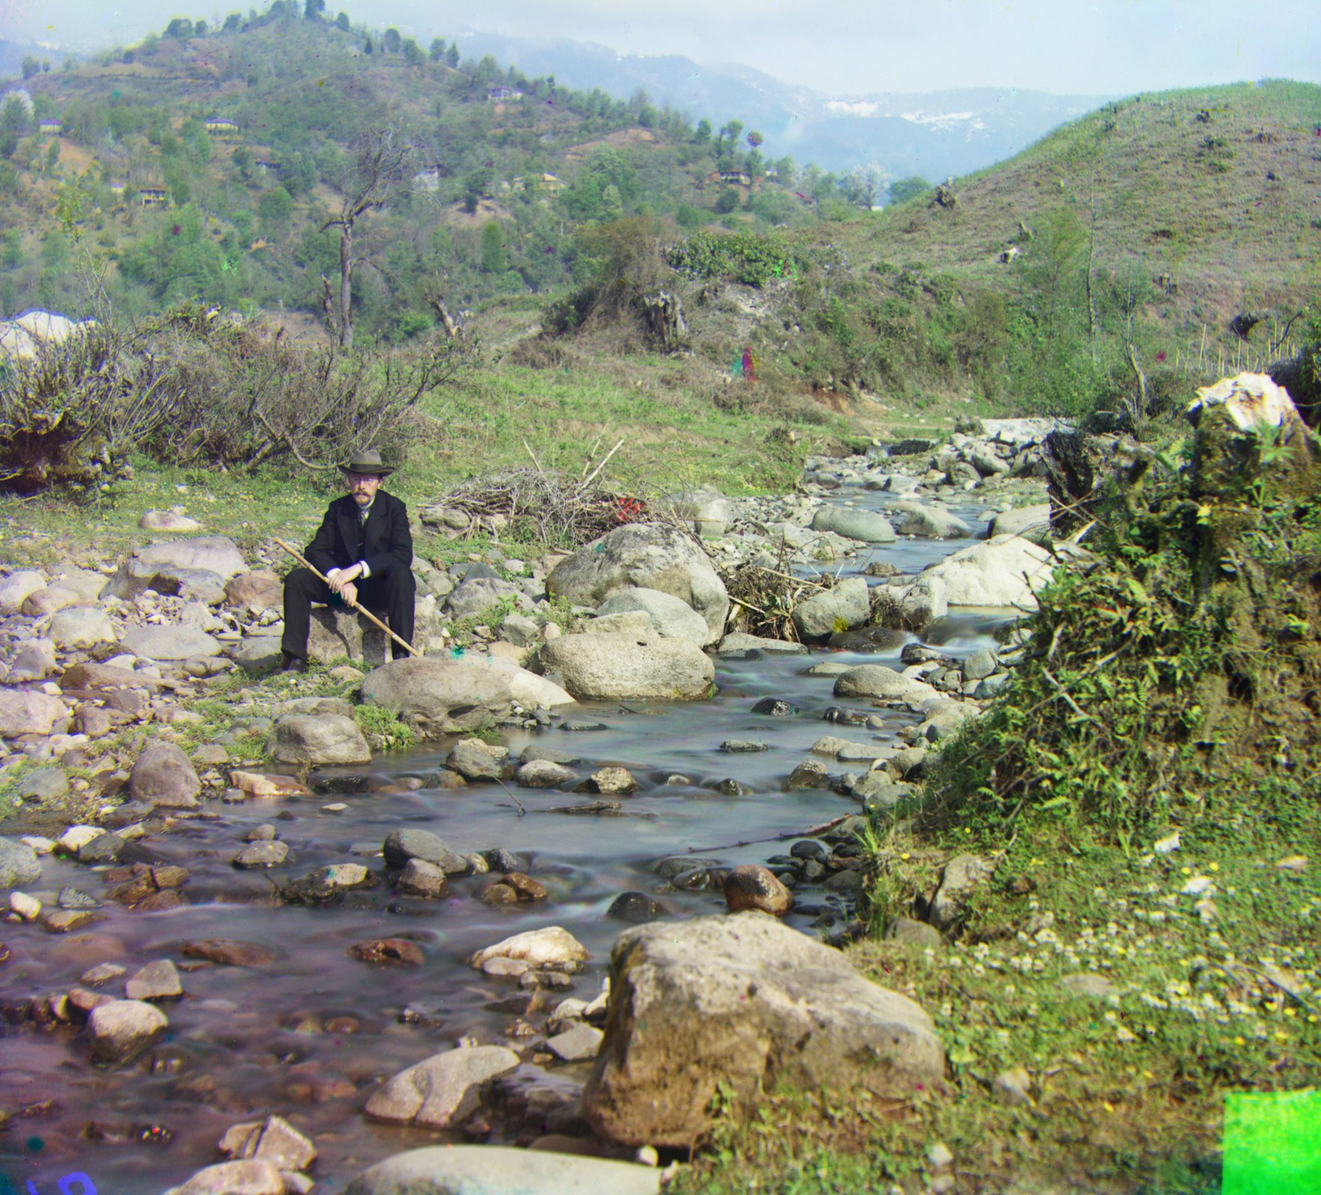
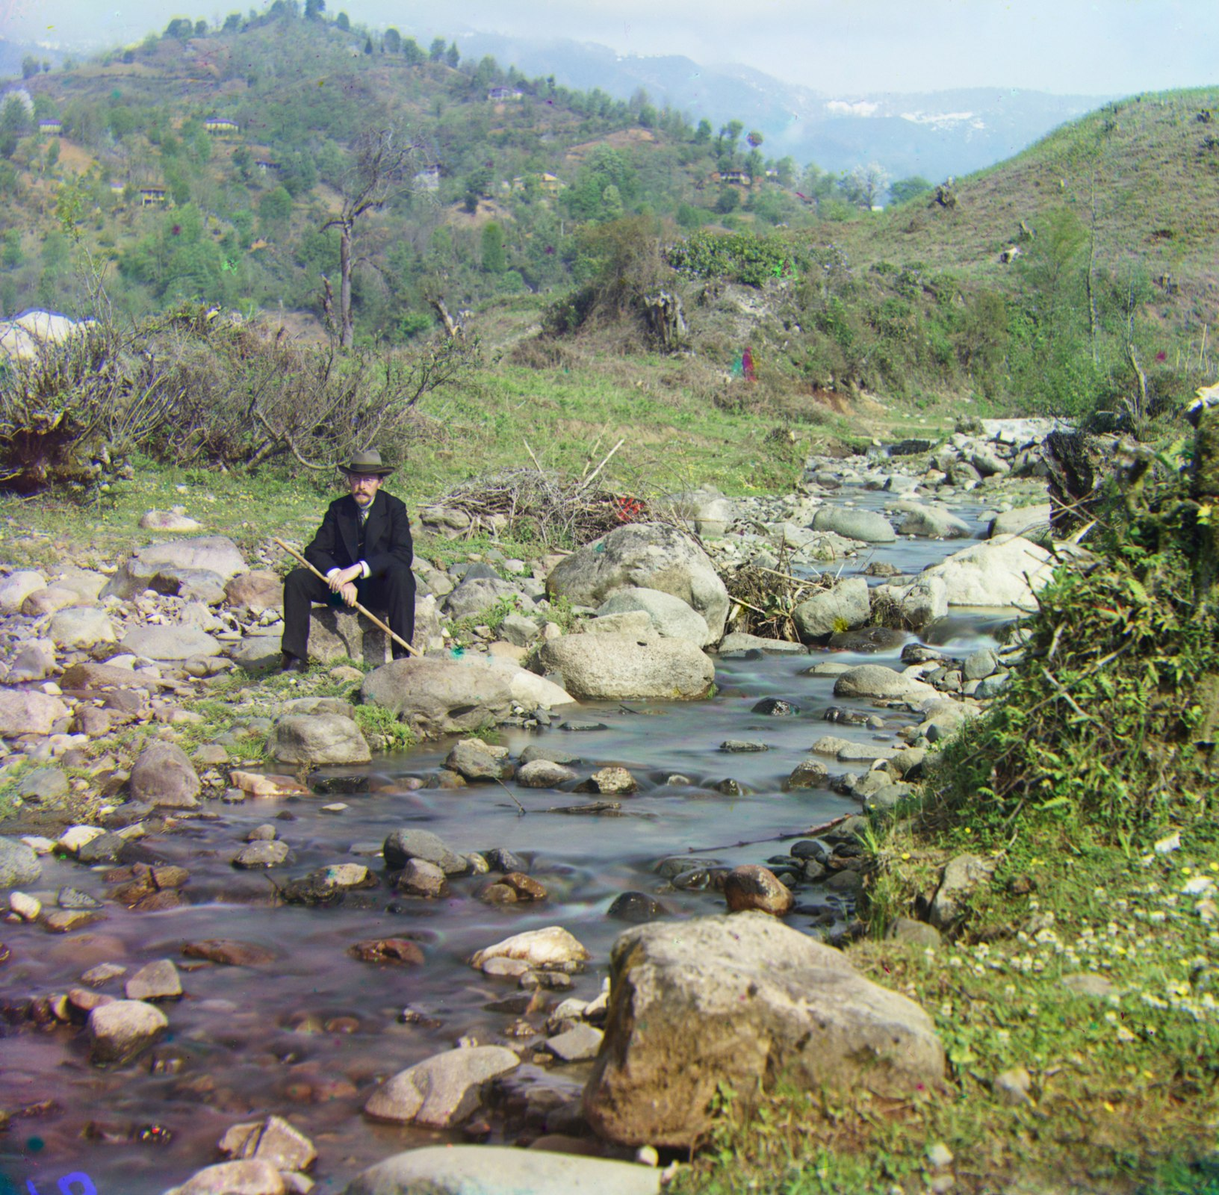
Expand Project 1 report and improve border handling

diff --git a/1/index.html b/1/index.html
@@ -14,8 +14,8 @@
       CS 180 · PROJECT 01
     </a>
     <nav aria-label="Page sections">
-      <a href="#method">Method</a>
-      <a href="#improvements">Improvements</a>
+      <a href="#method">Parts 1–4</a>
+      <a href="#improvements">Parts 5–7</a>
       <a href="#results">Results</a>
       <a href="#selected">Selected works</a>
     </nav>
@@ -40,11 +40,12 @@
     </section>
 
     <section class="light-section intro" id="method">
-      <div class="section-label"><span>01</span><p>Reconstruction pipeline</p></div>
+      <div class="section-label"><span>PART 1</span><p>Problem setup · from a glass plate to RGB</p></div>
       <div class="split-lead">
         <h2>One plate.<br>Three exposures.<br>One color image.</h2>
         <div>
-          <p>Each scan stores blue, green, and red filtered exposures from top to bottom. I split the plate into equal thirds, use blue as the fixed reference, translate green and red, and stack the aligned channels in RGB order. Blue is not mandated by the assignment; it is simply a consistent coordinate system, and any channel could serve as the reference.</p>
+          <p>Prokudin-Gorskii recorded the same scene three times through blue, green, and red filters. The digitized plate stores those grayscale exposures vertically in B–G–R order. Because the plate or camera moved slightly between exposures, directly stacking the three arrays produces colored ghosts. The task is to estimate one 2D translation for green and one for red, both relative to blue, then form an RGB image.</p>
+          <p>The reported displacement is <strong>(dy, dx)</strong>: positive dy moves a channel downward and positive dx moves it to the right. Once the two translations are estimated, only the region supported by all three channels is retained.</p>
           <div class="pipeline" aria-label="Alignment pipeline">
             <div><span>01</span><strong>Split</strong><small>B · G · R</small></div><b>→</b>
             <div><span>02</span><strong>Align</strong><small>G → B · R → B</small></div><b>→</b>
@@ -52,16 +53,38 @@
           </div>
         </div>
       </div>
+      <div class="plate-story">
+        <figure class="raw-plate"><span>INPUT · STACKED GLASS PLATE</span><img src="./media/plates/emir-stacked.jpg" alt="Emir glass plate containing blue, green, and red exposures from top to bottom" loading="lazy"><figcaption>Top → bottom: blue-filter, green-filter, red-filter exposures.</figcaption></figure>
+        <div class="plate-arrow" aria-hidden="true">→</div>
+        <figure class="plate-result"><span>OUTPUT · ALIGNED COLOR</span><img src="./media/final/emir.jpg" alt="Aligned color reconstruction of Emir" loading="lazy"><figcaption>G (49, 24) · R (107, 40), relative to blue.</figcaption></figure>
+      </div>
+      <div class="implementation-note">
+        <div><span>KEY IMPLEMENTATION</span><h3>Split without losing plate data</h3><p>The height of one exposure is ⌊H/3⌋. Any extra scan rows below the third exposure are ignored, and pixel values are converted to floating point before similarity scoring.</p></div>
+        <pre><code># pseudocode
+h = floor(total_height / 3)
+B = plate[0:h]
+G = plate[h:2h]
+R = plate[2h:3h]</code></pre>
+      </div>
     </section>
 
     <section class="dark-section">
-      <div class="section-label"><span>02</span><p>Single-scale alignment</p></div>
+      <div class="section-label"><span>PART 2</span><p>Single-scale exhaustive alignment</p></div>
       <div class="split-lead compact">
         <h2>Start small,<br>search everything.</h2>
         <div>
-          <p>For the three low-resolution JPEGs, I exhaustively evaluate every integer displacement in a [−15, 15] window. The score uses a fixed-size interior window valid for every candidate, so shifts are compared on exactly the same pixels and scanner borders do not dominate.</p>
-          <p class="formula">NCC(A,B) = ((A−μA) · (B−μB)) / (‖A−μA‖₂ ‖B−μB‖₂)</p>
+          <p>For each moving channel M and fixed blue reference B, I enumerate every integer translation d = (dy, dx) in [−15, 15]². The best displacement maximizes a similarity score S on the interior image content:</p>
+          <p class="formula">d* = arg max<sub>d∈[−15,15]²</sub> S(B, shift(M,d))</p>
+          <p>A crucial detail is the scoring window. I intersect the pixels that remain valid for <em>every</em> candidate shift, then remove another 10% interior margin. Every candidate is therefore measured on the same number of pixels. The final translation function writes uncovered pixels as black rather than using wraparound.</p>
         </div>
+      </div>
+      <div class="implementation-note dark-note">
+        <div><span>SEARCH LOGIC</span><h3>961 candidate translations per channel</h3><p>The low-resolution method is intentionally direct: two channels × 31 × 31 scores. This makes the result easy to reason about and satisfies the single-scale requirement.</p></div>
+        <pre><code># pseudocode
+for dy in -15 … 15:
+  for dx in -15 … 15:
+    score = similarity(B_window, shifted_M_window)
+    keep the displacement with the largest score</code></pre>
       </div>
       <div class="image-grid three">
         <figure class="image-card"><img src="./media/final/cathedral.jpg" alt="Aligned Cathedral"><figcaption><div><span>01</span><h3>Cathedral</h3></div><p>G (5, 2) · R (12, 3)</p></figcaption></figure>
@@ -71,7 +94,7 @@
     </section>
 
     <section class="dark-section pyramid-section">
-      <div class="section-label"><span>03</span><p>Multi-scale pyramid</p></div>
+      <div class="section-label"><span>PART 3</span><p>Coarse-to-fine image pyramid</p></div>
       <div class="pyramid-grid">
         <div class="pyramid-diagram" aria-label="Coarse-to-fine pyramid">
           <div style="width:34%">COARSE · SEARCH ±15</div>
@@ -82,20 +105,40 @@
         </div>
         <div>
           <h2>Large motion,<br>without a large search.</h2>
-          <p>Full-resolution TIFFs make a wide exhaustive search too expensive. I repeatedly apply a 2×2 box filter and downsample by two until the longest side is at most 400 pixels. The coarsest level searches broadly; each finer level doubles the estimate and refines it in a ±2 neighborhood.</p>
+          <p>A 31×31 search at full TIFF resolution repeatedly scores millions of pixels. Instead, I build a pyramid by averaging each 2×2 block before decimating by two. Filtering before downsampling reduces aliasing. Pyramid construction stops when the longest side is at most 400 pixels.</p>
+          <p>The coarsest image uses the full ±15 search. Moving one level finer doubles the displacement estimate because a coarse pixel covers two fine pixels; only a ±2 residual correction is then searched. If d<sub>ℓ+1</sub> is the coarser estimate, the next estimate is:</p>
+          <p class="formula">d<sub>ℓ</sub> = 2d<sub>ℓ+1</sub> + arg max<sub>δ∈[−2,2]²</sub> S(B<sub>ℓ</sub>, shift(M<sub>ℓ</sub>, 2d<sub>ℓ+1</sub>+δ))</p>
           <ul class="facts"><li><strong>Coarsest search</strong><span>±15 pixels</span></li><li><strong>Refinement</strong><span>±2 pixels per level</span></li><li><strong>Scoring area</strong><span>fixed valid overlap, inner 80%</span></li><li><strong>Runtime</strong><span>all final images under 25 seconds</span></li></ul>
         </div>
+      </div>
+      <div class="implementation-note dark-note">
+        <div><span>PYRAMID LOGIC</span><h3>Large motion becomes a small correction</h3><p>The same exhaustive aligner is reused at every scale. Only its search center and radius change, which keeps the implementation compact and testable.</p></div>
+        <pre><code># pseudocode
+offset = search(coarsest, center=(0,0), radius=15)
+for each finer level:
+  offset = 2 × offset
+  offset = search(level, center=offset, radius=2)</code></pre>
       </div>
     </section>
 
     <section class="paper-section metrics">
-      <div class="section-label"><span>04</span><p>Required base metrics</p></div>
+      <div class="section-label"><span>PART 4</span><p>Similarity metrics · NCC and Euclidean L2</p></div>
       <div class="split-lead compact">
         <h2>NCC and true<br>Euclidean L2.</h2>
         <div>
-          <p>I implemented both normalized cross-correlation and the exact Euclidean distance <strong>‖A−B‖₂</strong> on raw RGB-channel intensities. The L2 score is negated because the search routine maximizes scores. All displacement candidates use the same number of pixels; this avoids a small-overlap candidate appearing artificially better.</p>
+          <p><strong>Euclidean L2</strong> directly measures pixel disagreement. It is sensitive to brightness and contrast differences across filter channels, but is simple and effective when their intensities are comparable. The implementation evaluates the exact norm—not mean squared error—and negates it because the search routine maximizes scores.</p>
           <p class="formula light">L2 score(A,B) = −√Σᵢ(Aᵢ−Bᵢ)²</p>
+          <p><strong>Zero-mean normalized cross-correlation</strong> first subtracts each window’s mean and divides by its energy. It compares pattern shape instead of absolute intensity and is therefore more tolerant of global brightness and contrast changes.</p>
+          <p class="formula light">NCC(A,B) = ((A−μ<sub>A</sub>) · (B−μ<sub>B</sub>)) / (‖A−μ<sub>A</sub>‖₂ ‖B−μ<sub>B</sub>‖₂)</p>
         </div>
+      </div>
+      <div class="implementation-note light-note">
+        <div><span>METRIC LOGIC</span><h3>One maximization interface</h3><p>Both metrics return a score to maximize. Keeping a shared interface lets the same exhaustive search and pyramid code switch metrics without changing alignment logic.</p></div>
+        <pre><code># pseudocode
+if metric == "ncc":
+  return dot(center(A), center(B)) / energies
+if metric == "l2":
+  return -euclidean_norm(A - B)</code></pre>
       </div>
       <div class="metric-examples">
         <figure><span>NCC · Cathedral</span><img src="./media/metrics/cathedral-ncc.jpg" alt="Cathedral aligned with NCC" loading="lazy"><figcaption>G (5, 2) · R (12, 3)</figcaption></figure>
@@ -126,33 +169,61 @@
       <p class="table-note">These are the required raw-pixel experiments, not cherry-picked final outputs. Their failures motivated the feature extension below.</p>
     </section>
 
-    <section class="dark-section improvements" id="improvements">
-      <div class="section-label"><span>05</span><p>Improvement one · better features</p></div>
+    <section class="dark-section failure" id="improvements">
+      <div class="section-label"><span>PART 5</span><p>Failure analysis · Emir</p></div>
       <div class="split-lead compact">
-        <h2>When intensity lies,<br>follow the edges.</h2>
-        <p>Raw channels can represent the same material with very different brightness. My first extension forced gradient features everywhere: it fixed Emir, but slightly worsened already-stable images such as Three Generations. The final rule instead computes raw NCC and L2 first. If their offsets differ by more than two pixels, only that channel is realigned with gradient-magnitude NCC. Church and Emir’s red channels trigger this fixed, filename-independent fallback.</p>
+        <h2>Why raw pixels<br>fail on Emir.</h2>
+        <div><p>The Emir’s blue robe is bright in one filtered exposure and dark in another. Corresponding pixels therefore do not have corresponding intensities, violating the assumption behind raw-pixel comparison. The problem is especially severe for the red channel: raw NCC settles on R (141, −205), while L2 gives R (103, 57), and neither is visually correct.</p><p>The large disagreement between two otherwise reasonable metrics is useful evidence. Rather than treating one metric as universally correct, I use their disagreement as a confidence signal that raw intensity is unreliable for this channel.</p></div>
       </div>
       <div class="comparison-grid">
         <figure><span class="tag bad">Before · raw NCC</span><img src="./media/before/emir-raw.jpg" alt="Misaligned Emir from raw NCC" loading="lazy"><figcaption><strong>R (141, −205)</strong><span>Cross-channel brightness creates a false match.</span></figcaption></figure>
-        <figure><span class="tag good">After · adaptive edge fallback</span><img src="./media/final/emir.jpg" alt="Correctly aligned Emir after feature fallback" loading="lazy"><figcaption><strong>R (107, 40)</strong><span>Face, robe, and architecture now share structure.</span></figcaption></figure>
+        <figure><span class="tag bad">Before · raw L2</span><img src="./media/metrics/emir-l2.jpg" alt="Imperfect Emir from raw Euclidean L2" loading="lazy"><figcaption><strong>R (103, 57)</strong><span>Closer, but facial and architectural edges remain displaced.</span></figcaption></figure>
       </div>
-      <div class="decision-rule"><span>DECISION RULE</span><p>NCC/L2 agree within 2 px → retain raw pixels. Otherwise → edge-magnitude NCC for that channel only.</p></div>
+    </section>
+
+    <section class="dark-section improvements">
+      <div class="section-label"><span>PART 6</span><p>Improvement · more advanced is not always better</p></div>
+      <div class="split-lead compact">
+        <h2>Use edges<br>only when needed.</h2>
+        <div><p>Gradient magnitude emphasizes structural boundaries that remain stable even when colors change. For each channel image I compute horizontal and vertical finite differences and combine them as <strong>E = √(G<sub>x</sub>² + G<sub>y</sub>²)</strong>. Edge NCC correctly aligns Emir at G (49, 24), R (107, 40).</p><p>My first attempt forced edge matching on every plate. That solved Emir, but shifted Three Generations from the better raw result G (53, 14), R (112, 11) to G (54, 12), R (111, 9), making color outlines around the people more visible. A sophisticated feature is not automatically the best feature for every image.</p><p>The final method selects features independently for green and red. It first computes raw NCC and raw L2. If both coordinate estimates agree within two pixels, the raw result is trusted. If they disagree, that channel alone is recomputed with edge NCC. This fixed rule triggers for the red channels of Church and Emir; every other channel retains raw pixels.</p></div>
+      </div>
+      <div class="comparison-grid">
+        <figure><span class="tag bad">Forced edges everywhere</span><img src="./media/metrics/three-generations-edges.jpg" alt="Three Generations aligned using forced edge features" loading="lazy"><figcaption><strong>G (54, 12) · R (111, 9)</strong><span>Small subject outlines become more noticeable.</span></figcaption></figure>
+        <figure><span class="tag good">Adaptive feature selection</span><img src="./media/final/three_generations.jpg" alt="Three Generations using adaptive feature selection" loading="lazy"><figcaption><strong>G (53, 14) · R (112, 11)</strong><span>Stable raw-pixel alignment is retained.</span></figcaption></figure>
+      </div>
+      <div class="implementation-note dark-note">
+        <div><span>ADAPTIVE RULE</span><h3>Agreement acts as confidence</h3><p>The threshold is fixed and applied to each channel independently. No filename checks or hand-tuned offsets are used.</p></div>
+        <pre><code># pseudocode
+d_ncc = pyramid_align(raw, metric=NCC)
+d_l2  = pyramid_align(raw, metric=L2)
+if max_coordinate_difference(d_ncc, d_l2) ≤ 2:
+  use the requested raw metric
+else:
+  use pyramid_align(gradient_magnitude, metric=NCC)</code></pre>
+      </div>
+      <div class="decision-rule"><span>FINAL EMIR</span><p>G (49, 24) from raw pixels · R (107, 40) from edge-magnitude NCC.</p></div>
     </section>
 
     <section class="warm-section">
-      <div class="section-label"><span>06</span><p>Improvement two · automatic borders</p></div>
+      <div class="section-label"><span>PART 7</span><p>Improvement · automatic border removal</p></div>
       <div class="split-lead compact">
         <h2>Detect the frame,<br>don’t guess a margin.</h2>
-        <p>The initial version left black, white, and colored plate borders. A fixed crop would hide the symptom but remove a different amount of real content from every scan. The improved detector measures line-wise luminance, channel disagreement, and clipped-pixel density near all four edges. It crops after the last statistically unusual transition in the outer 10%, followed by a small proportional guard for antialiased fringes. All thresholds are shared across the dataset.</p>
+        <div><p>The initial version removed only invalid shift overlap, so black, white, and colored plate borders remained. A fixed percentage crop would hide them, but it would discard different amounts of real content from different scans.</p><p>The automatic detector forms three one-dimensional profiles along every edge: median luminance, median channel disagreement max(R,G,B)−min(R,G,B), and the fraction of nearly black or white pixels. After smoothing, it estimates normal transition noise from the central 50% of the photograph and selects the <em>last</em> statistically unusual transition in the outer 10%. Selecting the last transition is important because many plates contain nested white and dark bands.</p><p>A small guard band removes antialiased fringes. A second conservative corner test detects a dense clipped high-chroma block touching two adjacent edges—the case that caused the green square on Self Portrait—then removes only the shallower affected strip. All thresholds and proportions are fixed for the complete dataset.</p></div>
       </div>
       <div class="comparison-grid">
         <figure><span class="tag bad">Before · no automatic crop</span><img src="./media/before/church-raw.jpg" alt="Church before automatic border handling" loading="lazy"><figcaption><strong>Initial version</strong><span>Scanner and plate bands remain visible.</span></figcaption></figure>
         <figure><span class="tag good">After · detected bounds</span><img src="./media/final/church.jpg" alt="Church after automatic border handling" loading="lazy"><figcaption><strong>Automatic crop</strong><span>No per-image margins or filename rules.</span></figcaption></figure>
       </div>
+      <div class="implementation-note dark-note"><div><span>BORDER SIGNALS</span><h3>From 2D frame to four 1D decisions</h3><p>Full edge lines handle ordinary and nested borders; the corner test handles localized saturated blocks that line medians intentionally ignore.</p></div><pre><code># pseudocode
+profile = luminance_change
+        + 0.75 × chroma_change
+        + 0.50 × clipped_fraction_change
+threshold = max(0.008, 2 × central_noise_98th_percentile)
+crop after the last outer transition above threshold</code></pre></div>
     </section>
 
     <section class="paper-section results" id="results">
-      <div class="section-label"><span>07</span><p>All supplied results</p></div>
+      <div class="section-label"><span>PART 8</span><p>All supplied results</p></div>
       <div class="split-lead compact"><h2>Fourteen plates,<br>one parameter set.</h2><p>Final images use adaptive NCC/edge alignment and automatic border removal. Offsets are (dy, dx) for green and red relative to blue; positive dy moves down and positive dx moves right.</p></div>
       <div class="results-grid">
         <figure><img src="./media/final/cathedral.jpg" alt="Cathedral" loading="lazy"><figcaption><h3>Cathedral</h3><p>G (5, 2) · R (12, 3)</p></figcaption></figure>
@@ -173,7 +244,7 @@
     </section>
 
     <section class="selected-section" id="selected">
-      <div class="section-label"><span>08</span><p>Selected from the archive</p></div>
+      <div class="section-label"><span>PART 9</span><p>Images of my choosing</p></div>
       <div class="split-lead compact"><h2>Three unseen plates.<br>The same algorithm.</h2><p>I chose three distinct high-resolution TIFF plates from the Library of Congress collection. They are not duplicates of the supplied set, and no parameters were changed.</p></div>
       <div class="selected-grid">
         <figure><img src="./media/selected/lugano.jpg" alt="Lugano" loading="lazy"><figcaption><div><span>LC–00216</span><h3>Lugano</h3></div><p>G (37, 13) · R (86, 38)</p></figcaption></figure>
@@ -184,7 +255,7 @@
     </section>
 
     <section class="dark-section limitation">
-      <div class="section-label"><span>09</span><p>What translation cannot fix</p></div>
+      <div class="section-label"><span>PART 10</span><p>Limitations · what translation cannot fix</p></div>
       <div class="limitation-grid">
         <img src="./media/final/three_generations.jpg" alt="Three Generations showing localized subject motion" loading="lazy">
         <div><h2>A sharp scene can still contain color ghosts.</h2><p>In Three Generations and Harvesters, buildings, rails, and ground align sharply while small colored fringes remain around people. The exposures were captured sequentially, so a moving subject does not occupy the same position in every channel. One global integer translation cannot correct this local motion without damaging the static background.</p><div class="decision-rule"><span>LIMITATION</span><p>Global translation models camera or plate shift—not independent object motion.</p></div></div>

diff --git a/1/project.css b/1/project.css
@@ -83,6 +83,23 @@ h1 { margin-bottom: 34px; font: 400 clamp(4rem, 7.2vw, 8.8rem)/.86 var(--display
 .formula { margin-top: 26px; padding: 18px 20px; border-left: 2px solid var(--gold); background: var(--surface); color: #d7dde2 !important; font: 14px/1.55 var(--mono) !important; overflow-wrap: anywhere; }
 .formula.light { background: #d8d4cb; color: #27313a !important; }
 
+.plate-story { display: grid; grid-template-columns: minmax(220px, .42fr) auto minmax(420px, 1fr); gap: 28px; align-items: center; margin-top: 72px; }
+.plate-story figure { margin: 0; }
+.plate-story figure > span { display: block; margin-bottom: 12px; color: #68727a; font: 700 11px/1 var(--mono); letter-spacing: .08em; }
+.plate-story img { width: 100%; max-height: 720px; object-fit: cover; border: 1px solid rgba(12,17,24,.2); background: #d2cfc7; }
+.raw-plate img { object-fit: contain; background: #171717; }
+.plate-story figcaption { padding-top: 11px; color: #626b73; font: 12px/1.45 var(--mono); }
+.plate-arrow { color: #757d84; font: 400 2rem/1 var(--display); }
+.implementation-note { display: grid; grid-template-columns: .85fr 1.15fr; gap: 32px; margin-top: 52px; padding: 28px; border: 1px solid rgba(12,17,24,.2); background: rgba(255,255,255,.24); }
+.implementation-note > div > span { color: #8a6425; font: 700 11px/1 var(--mono); letter-spacing: .09em; }
+.implementation-note h3 { margin: 12px 0 10px; font: 400 1.5rem/1.1 var(--display); }
+.implementation-note p { margin: 0; color: #56616a; font-size: 14px; }
+.implementation-note pre { margin: 0; padding: 19px 21px; overflow-x: auto; background: #17202a; color: #dce4ea; border-left: 2px solid var(--gold); font: 13px/1.6 var(--mono); white-space: pre-wrap; }
+.dark-note { border-color: var(--line); background: rgba(255,255,255,.025); }
+.dark-note h3 { color: var(--ink); }
+.dark-note p { color: #aeb9c2; }
+.light-note { margin-bottom: 54px; }
+
 .image-grid.three { display: grid; grid-template-columns: repeat(3, 1fr); gap: 20px; }
 .image-card { margin: 0; background: var(--surface); border: 1px solid var(--line); }
 .image-card img { aspect-ratio: 1.08; object-fit: cover; }
@@ -159,7 +176,9 @@ footer a { color: var(--ink); }
   .hero { grid-template-columns: 1fr; }
   .hero-copy { min-height: 680px; }
   .hero-visual { min-height: 74vh; }
-  .split-lead, .pyramid-grid, .limitation-grid { grid-template-columns: 1fr; gap: 42px; }
+  .split-lead, .pyramid-grid, .limitation-grid, .plate-story, .implementation-note { grid-template-columns: 1fr; gap: 42px; }
+  .plate-arrow { transform: rotate(90deg); justify-self: center; }
+  .raw-plate img { max-height: 620px; }
   .results-grid { grid-template-columns: repeat(2, 1fr); }
   .selected-grid figure:nth-child(1) { grid-column: 1 / 8; }
   .selected-grid figure:nth-child(2) { grid-column: 8 / 13; margin-top: 60px; }

diff --git a/README.md b/README.md
@@ -2,7 +2,7 @@
 
 GitHub Pages source for `https://qwqzzh.github.io/`.
 
-- `index.html` — portfolio landing page with links to Projects 0–4
+- `index.html` — portfolio landing page with links to Projects 0–5
 - `0/` — Project 0 report and media
 - `1/` — Project 1 report and web-sized result images
 - `2/`, `3/`, `4/`, `5/` — placeholders for future project reports
